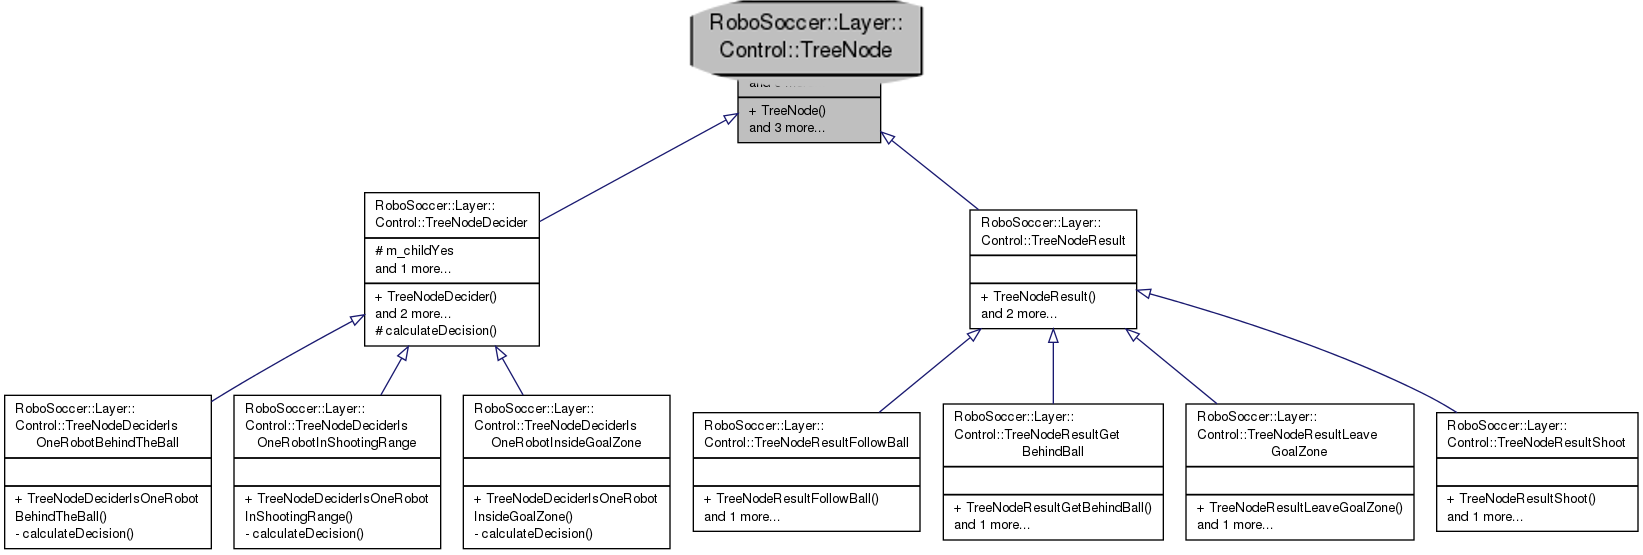
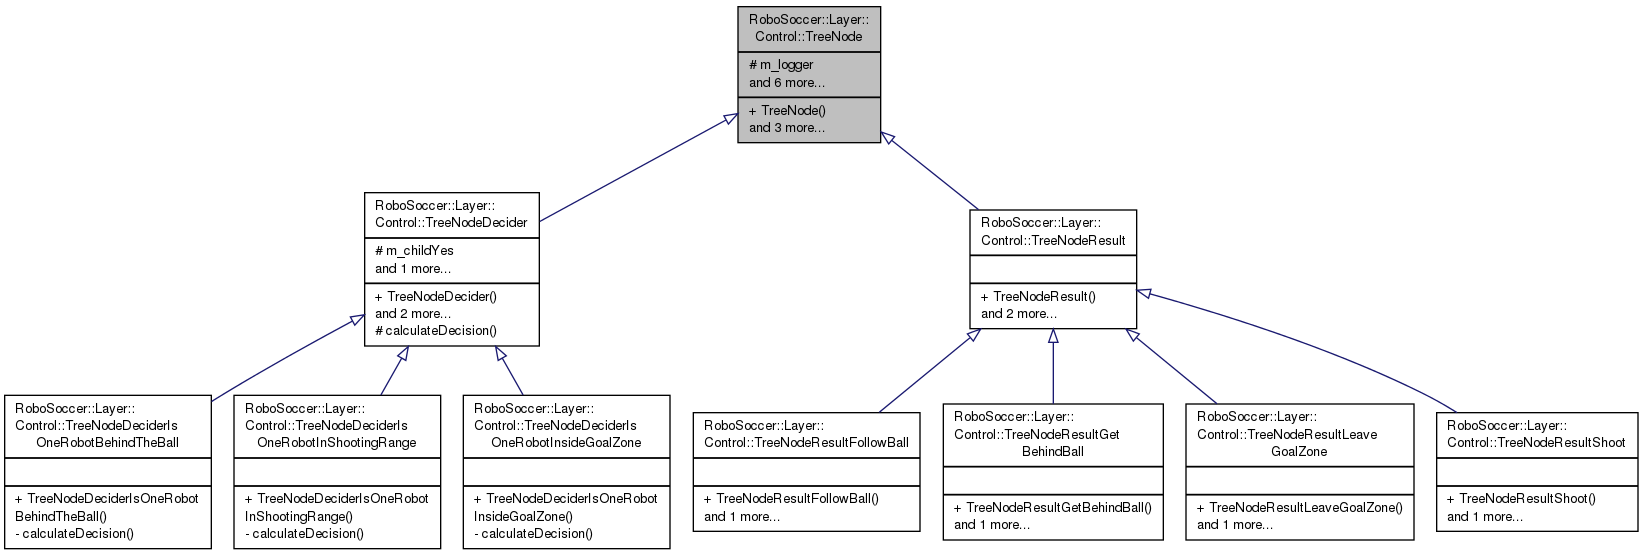
added zoomed graph

Changed region(s): [[0.4035, 0.0, 0.5898, 0.1532]]

diff --git a/documents/projectplan_final/projectplan.tex b/documents/projectplan_final/projectplan.tex
@@ -382,6 +382,15 @@
 \end{frame}
 
 \begin{frame}
+	\frametitle{Tree Nodes}
+	\center
+	\begin{figure}
+		\centering
+		\includegraphics[width = \textwidth]{inheritance_graph_treenode_zoomed.png}
+	\end{figure}
+\end{frame}
+
+\begin{frame}
 	\frametitle{Tree Node Deciders}
 	\center
 	\begin{figure}
